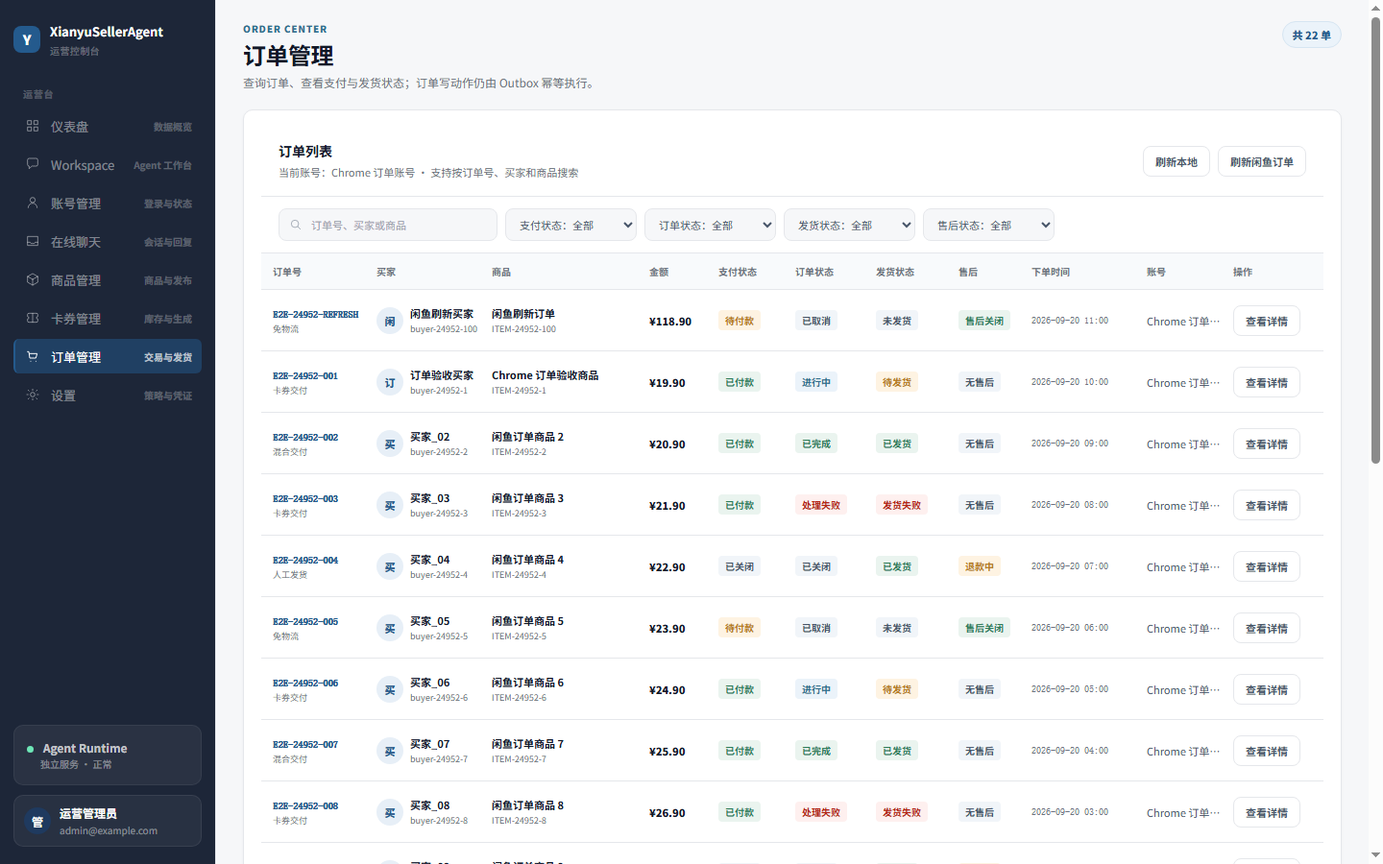
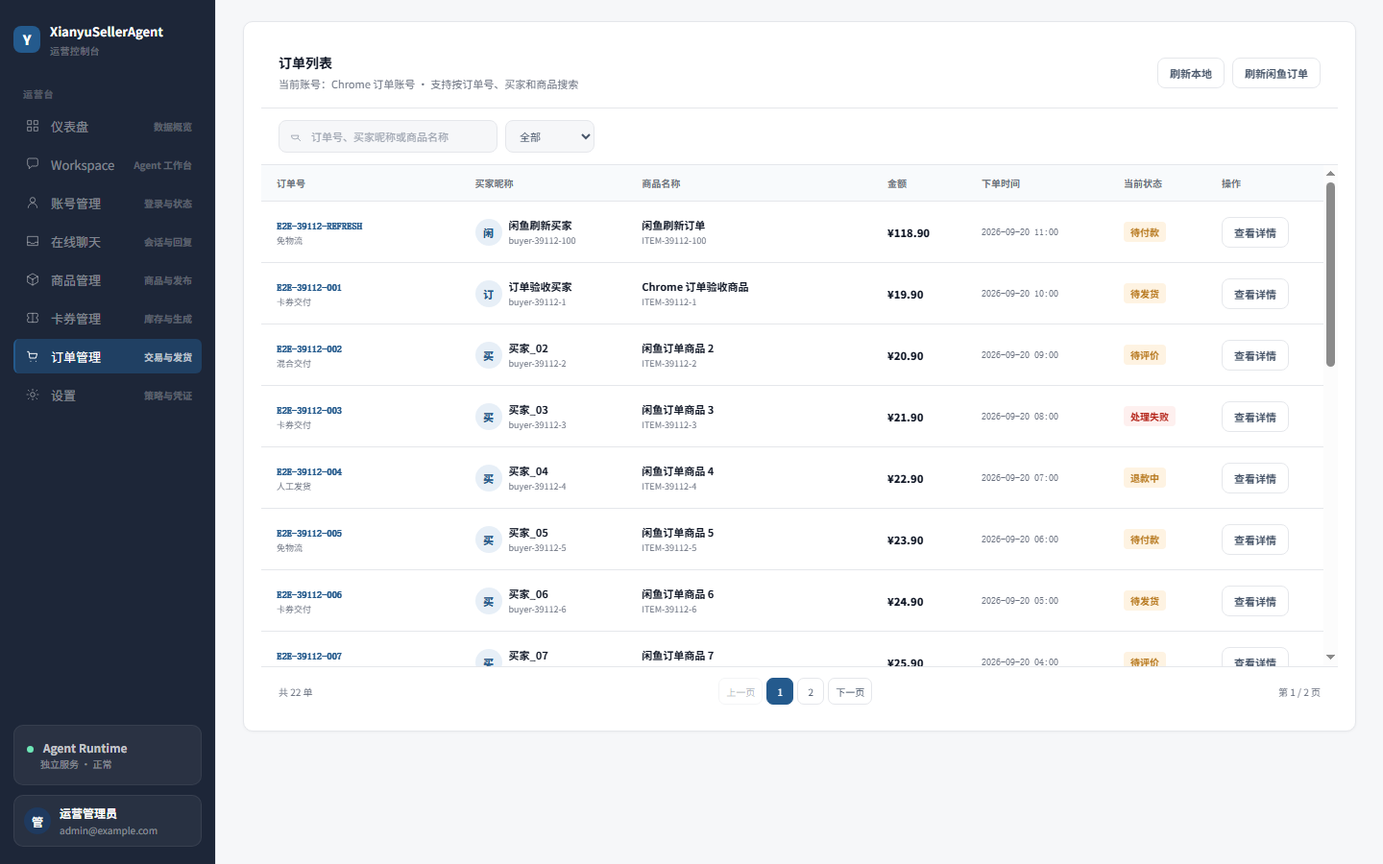
feat(订单): 收敛订单列表筛选与表格展示

diff --git a/apps/web/src/features/orders/components/orders.css b/apps/web/src/features/orders/components/orders.css
@@ -1,7 +1,4 @@
 .orders-domain{max-width:none}
-.orders-page-title{display:flex;justify-content:space-between;align-items:flex-start;gap:16px}
-.orders-page-title h1{margin-bottom:6px}
-.orders-page-badge{display:inline-flex;align-items:center;min-height:28px;padding:0 10px;border:1px solid #D6E5F2;border-radius:999px;background:var(--soft-blue-bg);color:var(--link);font-size:11px;font-weight:800;white-space:nowrap}
 .orders-panel{padding:0;overflow:hidden}
 .orders-toolbar{display:flex;justify-content:space-between;align-items:center;gap:14px;padding:16px 18px;border-bottom:1px solid var(--border);background:#fff}
 .orders-toolbar h2{margin-bottom:3px;font-size:14px}
@@ -16,9 +13,9 @@
 .orders-search input{width:100%;border:0;outline:0;background:transparent;color:var(--text);font-size:11px}
 .orders-search input::placeholder{color:#9CA3AF}
 .orders-context-error{color:var(--danger);font-size:10px;font-weight:700;white-space:nowrap}
-.orders-table-scroll{overflow:auto}
-.orders-table{min-width:0;border:0}
-.orders-row{display:grid;grid-template-columns:100px 112px minmax(150px,1.4fr) 64px 72px 76px 78px 68px 112px 82px 82px;gap:8px;align-items:center;min-height:64px;padding:10px 12px;border-bottom:1px solid var(--border);font-size:11px;color:var(--text)}
+.orders-table-scroll{max-height:min(58vh,560px);min-height:160px;overflow:auto;scrollbar-gutter:stable}
+.orders-table{min-width:920px;border:0}
+.orders-row{display:grid;grid-template-columns:minmax(170px,1.2fr) minmax(140px,1fr) minmax(180px,1.5fr) 88px 138px 92px 90px;gap:10px;align-items:center;min-height:64px;padding:10px 16px;border-bottom:1px solid var(--border);font-size:11px;color:var(--text)}
 .orders-row:last-child{border-bottom:0}
 .orders-head{position:sticky;top:0;z-index:1;min-height:38px;background:#F8FAFC;color:var(--sub);font-size:10px;font-weight:700;white-space:nowrap}
 .orders-row small{display:block;margin-top:3px;color:var(--sub);font-size:9px;line-height:1.35;overflow:hidden;text-overflow:ellipsis;white-space:nowrap}
@@ -31,7 +28,6 @@
 .orders-product{min-width:0}
 .orders-amount{font-weight:800;font-variant-numeric:tabular-nums;white-space:nowrap}
 .orders-time{font-family:ui-monospace,SFMono-Regular,Menlo,monospace;font-size:10px;color:var(--sub);white-space:nowrap}
-.orders-account{color:var(--muted);overflow:hidden;text-overflow:ellipsis;white-space:nowrap}
 .orders-status{display:inline-flex;align-items:center;width:max-content;max-width:100%;padding:3px 7px;border-radius:4px;font-size:10px;font-weight:700;white-space:nowrap}
 .orders-status-success{color:var(--success);background:var(--success-bg)}
 .orders-status-warn{color:var(--warn);background:var(--warn-bg)}
@@ -86,15 +82,13 @@
 .orders-drawer-state strong{color:var(--text);font-size:13px}
 
 @media(max-width:900px){
-  .orders-page-title{align-items:stretch;gap:10px}
-  .orders-page-badge{align-self:flex-start}
   .orders-toolbar,.orders-filters-wrap{align-items:stretch;flex-direction:column}
   .orders-toolbar-actions{justify-content:space-between}
   .orders-filter-row{display:grid;grid-template-columns:repeat(2,minmax(0,1fr));width:100%}
   .orders-search{grid-column:1/-1;width:100%}
   .orders-filter-row select{width:100%}
   .orders-context-error{align-self:flex-start}
-  .orders-table-scroll{overflow:visible}
+  .orders-table-scroll{max-height:min(54vh,460px);min-height:140px;overflow:auto}
   .orders-table{min-width:0}
   .orders-head{display:none}
   .orders-row:not(.orders-head){display:grid;grid-template-columns:1fr auto;gap:8px 12px;align-items:start;min-height:0;margin:0 12px;padding:14px 0;border-bottom:1px solid var(--border)}
@@ -102,11 +96,10 @@
   .orders-row:not(.orders-head)>:nth-child(2){grid-column:1/-1}
   .orders-row:not(.orders-head)>:nth-child(3){grid-column:1/-1}
   .orders-row:not(.orders-head)>:nth-child(4){grid-column:2;grid-row:1;align-self:start}
-  .orders-row:not(.orders-head)>:nth-child(5),.orders-row:not(.orders-head)>:nth-child(6),.orders-row:not(.orders-head)>:nth-child(7),.orders-row:not(.orders-head)>:nth-child(8){grid-column:auto}
-  .orders-row:not(.orders-head)>:nth-child(9),.orders-row:not(.orders-head)>:nth-child(10){grid-column:1/-1}
-  .orders-row:not(.orders-head)>:nth-child(11){grid-column:1/-1}
-  .orders-row:not(.orders-head)>:nth-child(5),.orders-row:not(.orders-head)>:nth-child(6),.orders-row:not(.orders-head)>:nth-child(7),.orders-row:not(.orders-head)>:nth-child(8){display:inline-flex;margin-right:4px}
-  .orders-time,.orders-account{font-size:10px}
+  .orders-row:not(.orders-head)>:nth-child(5){grid-column:1/-1}
+  .orders-row:not(.orders-head)>:nth-child(6){grid-column:1/-1}
+  .orders-row:not(.orders-head)>:nth-child(7){grid-column:1/-1}
+  .orders-time{font-size:10px}
   .orders-pagination{align-items:stretch;flex-direction:column;padding:12px 16px}
   .orders-pagination>div{justify-content:center;order:3}
   .orders-drawer{width:100%;height:auto;max-height:92vh;border-radius:16px 16px 0 0;align-self:flex-end}

diff --git a/apps/web/src/features/orders/components/OrderTable.tsx b/apps/web/src/features/orders/components/OrderTable.tsx
@@ -1,28 +1,20 @@
 import type { OrderVM } from '../types';
+import { getOrderDisplayStatus, orderDisplayStatusLabel, orderDisplayStatusTone } from '../order-status';
 import { formatOrderDate } from './order-date';
-
-const paymentLabels: Record<OrderVM['paymentStatus'], string> = { unpaid: '待付款', paid: '已付款', closed: '已关闭', unknown: '未知' };
-const orderLabels: Record<OrderVM['orderStatus'], string> = { open: '进行中', cancelling: '取消中', cancelled: '已取消', completed: '已完成', closed: '已关闭', failed: '处理失败' };
-const deliveryLabels: Record<OrderVM['deliveryStatus'], string> = { pending: '待发货', reserving: '锁库存', delivered: '已发货', partially_delivered: '部分发货', failed: '发货失败', cancelled: '未发货' };
-const afterSalesLabels: Record<OrderVM['afterSalesStatus'], string> = { none: '无售后', requested: '售后申请', refunding: '退款中', refunded: '已退款', rejected: '已驳回', closed: '售后关闭' };
 
 export function OrderTable({ orders, page, totalPages, total, onPageChange, onOpen }: { orders: OrderVM[]; page: number; totalPages: number; total: number; onPageChange: (page: number) => void; onOpen: (orderNo: string) => void }) {
   const allPages = getPageItems(page, totalPages);
   return <div className="orders-table-region">
     <div className="orders-table-scroll">
       <div className="orders-table" role="table" aria-label="订单列表" data-testid="orders-table">
-        <div className="orders-row orders-head" role="row"><span>订单号</span><span>买家</span><span>商品</span><span>金额</span><span>支付状态</span><span>订单状态</span><span>发货状态</span><span>售后</span><span>下单时间</span><span>账号</span><span>操作</span></div>
+        <div className="orders-row orders-head" role="row"><span>订单号</span><span>买家昵称</span><span>商品名称</span><span>金额</span><span>下单时间</span><span>当前状态</span><span>操作</span></div>
         {orders.map((order) => <div className="orders-row" role="row" key={order.orderNo} data-order-no={order.orderNo}>
           <button className="orders-order-link" type="button" onClick={() => onOpen(order.orderNo)}><strong>{order.orderNo}</strong><small>{order.deliveryType === 'coupon_only' ? '卡券交付' : order.deliveryType === 'no_logistics' ? '免物流' : order.deliveryType === 'mixed' ? '混合交付' : '人工发货'}</small></button>
-          <div className="orders-buyer"><span className="orders-avatar">{order.buyerName.slice(0, 1)}</span><span><strong>{order.buyerName}</strong><small>{order.buyerId}</small></span></div>
+          <div className="orders-buyer"><span className="orders-avatar">{order.buyerName.slice(0, 1)}</span><span title={`买家姓名：${order.buyerName}`} aria-label={`买家昵称，悬浮查看买家姓名：${order.buyerName}`}><strong>{order.buyerName}</strong><small>{order.buyerId}</small></span></div>
           <div className="orders-product"><strong>{order.itemTitle}</strong><small>{order.itemId}</small></div>
           <span className="orders-amount">¥{(order.amountMinor / 100).toFixed(2)}</span>
-          <StatusPill tone={order.paymentStatus === 'paid' ? 'success' : order.paymentStatus === 'closed' ? 'neutral' : order.paymentStatus === 'unknown' ? 'danger' : 'warn'}>{paymentLabels[order.paymentStatus]}</StatusPill>
-          <StatusPill tone={order.orderStatus === 'completed' ? 'success' : order.orderStatus === 'failed' ? 'danger' : order.orderStatus === 'closed' || order.orderStatus === 'cancelled' ? 'neutral' : 'info'}>{orderLabels[order.orderStatus]}</StatusPill>
-          <StatusPill tone={order.deliveryStatus === 'delivered' ? 'success' : order.deliveryStatus === 'failed' ? 'danger' : order.deliveryStatus === 'cancelled' ? 'neutral' : 'warn'}>{deliveryLabels[order.deliveryStatus]}</StatusPill>
-          <StatusPill tone={order.afterSalesStatus === 'none' ? 'neutral' : order.afterSalesStatus === 'refunded' || order.afterSalesStatus === 'closed' ? 'success' : 'warn'}>{afterSalesLabels[order.afterSalesStatus]}</StatusPill>
           <time className="orders-time" dateTime={order.createdAt}>{formatOrderDate(order.createdAt)}</time>
-          <span className="orders-account">{order.accountName ?? order.accountId}</span>
+          {(() => { const status = getOrderDisplayStatus(order); return <StatusPill tone={orderDisplayStatusTone(status)}>{orderDisplayStatusLabel(status)}</StatusPill>; })()}
           <span className="orders-row-actions"><button className="btn ghost btn-small" type="button" onClick={() => onOpen(order.orderNo)}>查看详情</button></span>
         </div>)}
       </div>

diff --git a/apps/web/src/features/orders/components/OrderFilters.tsx b/apps/web/src/features/orders/components/OrderFilters.tsx
@@ -1,25 +1,9 @@
-import type { AfterSalesStatus, DeliveryStatus, OrderFilters as OrderFiltersVM, OrderStatus, PaymentStatus } from '../types';
-
-const paymentOptions: Array<{ value: PaymentStatus | 'all'; label: string }> = [
-  { value: 'all', label: '支付状态：全部' }, { value: 'unpaid', label: '待付款' }, { value: 'paid', label: '已付款' }, { value: 'closed', label: '已关闭' }, { value: 'unknown', label: '未知' },
-];
-const orderOptions: Array<{ value: OrderStatus | 'all'; label: string }> = [
-  { value: 'all', label: '订单状态：全部' }, { value: 'open', label: '进行中' }, { value: 'completed', label: '已完成' }, { value: 'closed', label: '已关闭' }, { value: 'cancelled', label: '已取消' }, { value: 'failed', label: '处理失败' },
-];
-const deliveryOptions: Array<{ value: DeliveryStatus | 'all'; label: string }> = [
-  { value: 'all', label: '发货状态：全部' }, { value: 'pending', label: '待发货' }, { value: 'reserving', label: '锁库存' }, { value: 'delivered', label: '已发货' }, { value: 'partially_delivered', label: '部分发货' }, { value: 'failed', label: '发货失败' }, { value: 'cancelled', label: '未发货' },
-];
-const afterSalesOptions: Array<{ value: AfterSalesStatus | 'all'; label: string }> = [
-  { value: 'all', label: '售后状态：全部' }, { value: 'none', label: '无售后' }, { value: 'requested', label: '售后申请' }, { value: 'refunding', label: '退款中' }, { value: 'refunded', label: '已退款' }, { value: 'closed', label: '售后关闭' },
-];
+import type { OrderFilters as OrderFiltersVM } from '../types';
+import { filtersForStatus, orderListStatusOptions, statusFilterFromFilters } from '../order-status';
 
 export function OrderFilters({ filters, onChange }: { filters: OrderFiltersVM; onChange: (patch: Partial<OrderFiltersVM>) => void }) {
   return <div className="orders-filter-row" aria-label="订单筛选条件">
-    <label className="orders-search"><span className="sr-only">搜索订单</span><svg viewBox="0 0 24 24" aria-hidden="true"><path d="m20 20-4.2-4.2m1.2-5.3a6.5 6.5 0 1 1-13 0a6.5 6.5 0 0 1 13 0Z" /></svg><input aria-label="搜索订单" value={filters.keyword ?? ''} onChange={(event) => onChange({ keyword: event.target.value, page: 1 })} placeholder="订单号、买家或商品" /></label>
-    <label><span className="sr-only">支付状态</span><select aria-label="支付状态" value={filters.paymentStatus ?? 'all'} onChange={(event) => onChange({ paymentStatus: event.target.value as PaymentStatus | 'all', page: 1 })}>{paymentOptions.map((option) => <option value={option.value} key={option.value}>{option.label}</option>)}</select></label>
-    <label><span className="sr-only">订单状态</span><select aria-label="订单状态" value={filters.orderStatus ?? 'all'} onChange={(event) => onChange({ orderStatus: event.target.value as OrderStatus | 'all', page: 1 })}>{orderOptions.map((option) => <option value={option.value} key={option.value}>{option.label}</option>)}</select></label>
-    <label><span className="sr-only">发货状态</span><select aria-label="发货状态" value={filters.deliveryStatus ?? 'all'} onChange={(event) => onChange({ deliveryStatus: event.target.value as DeliveryStatus | 'all', page: 1 })}>{deliveryOptions.map((option) => <option value={option.value} key={option.value}>{option.label}</option>)}</select></label>
-    <label><span className="sr-only">售后状态</span><select aria-label="售后状态" value={filters.afterSalesStatus ?? 'all'} onChange={(event) => onChange({ afterSalesStatus: event.target.value as AfterSalesStatus | 'all', page: 1 })}>{afterSalesOptions.map((option) => <option value={option.value} key={option.value}>{option.label}</option>)}</select></label>
+    <label className="orders-search"><span className="sr-only">搜索订单</span><svg viewBox="0 0 24 24" aria-hidden="true"><path d="m20 20-4.2-4.2m1.2-5.3a6.5 6.5 0 1 1-13 0Z" /></svg><input aria-label="搜索订单" value={filters.keyword ?? ''} onChange={(event) => onChange({ keyword: event.target.value, page: 1 })} placeholder="订单号、买家昵称或商品名称" /></label>
+    <label><span className="sr-only">订单状态</span><select aria-label="订单状态" value={statusFilterFromFilters(filters)} onChange={(event) => onChange({ ...filtersForStatus(event.target.value as Parameters<typeof filtersForStatus>[0]), page: 1 })}>{orderListStatusOptions.map((option) => <option value={option.value} key={option.value}>{option.label}</option>)}</select></label>
   </div>;
 }
-

diff --git a/apps/web/src/features/orders/order-status.ts b/apps/web/src/features/orders/order-status.ts
@@ -1,0 +1,65 @@
+import type { OrderFilters, OrderVM } from './types';
+
+export type OrderListStatusFilter = 'all' | 'pending_payment' | 'pending_delivery' | 'pending_receipt' | 'pending_review' | 'refunding';
+export type OrderDisplayStatus = OrderListStatusFilter | 'processing' | 'failed' | 'completed' | 'closed';
+
+export const orderListStatusOptions: Array<{ value: OrderListStatusFilter; label: string }> = [
+  { value: 'all', label: '全部' },
+  { value: 'pending_payment', label: '待付款' },
+  { value: 'pending_delivery', label: '待发货' },
+  { value: 'pending_receipt', label: '待收货' },
+  { value: 'pending_review', label: '待评价' },
+  { value: 'refunding', label: '退款中' },
+];
+
+export function filtersForStatus(value: OrderListStatusFilter): Partial<OrderFilters> {
+  const base: Partial<OrderFilters> = {
+    paymentStatus: 'all',
+    orderStatus: 'all',
+    deliveryStatus: 'all',
+    afterSalesStatus: 'all',
+  };
+  if (value === 'pending_payment') return { ...base, paymentStatus: 'unpaid' };
+  if (value === 'pending_delivery') return { ...base, deliveryStatus: 'pending' };
+  if (value === 'pending_receipt') return { ...base, orderStatus: 'open', deliveryStatus: 'delivered' };
+  if (value === 'pending_review') return { ...base, orderStatus: 'completed', deliveryStatus: 'delivered' };
+  if (value === 'refunding') return { ...base, afterSalesStatus: 'refunding' };
+  return base;
+}
+
+export function statusFilterFromFilters(filters: Pick<OrderFilters, 'paymentStatus' | 'orderStatus' | 'deliveryStatus' | 'afterSalesStatus'>): OrderListStatusFilter {
+  if (filters.paymentStatus === 'unpaid') return 'pending_payment';
+  if (filters.deliveryStatus === 'pending') return 'pending_delivery';
+  if (filters.deliveryStatus === 'delivered' && filters.orderStatus === 'open') return 'pending_receipt';
+  if (filters.orderStatus === 'completed') return 'pending_review';
+  if (filters.afterSalesStatus === 'refunding') return 'refunding';
+  return 'all';
+}
+
+export function getOrderDisplayStatus(order: Pick<OrderVM, 'paymentStatus' | 'orderStatus' | 'deliveryStatus' | 'afterSalesStatus'>): OrderDisplayStatus {
+  if (order.paymentStatus === 'unpaid') return 'pending_payment';
+  if (order.afterSalesStatus === 'refunding') return 'refunding';
+  if (order.deliveryStatus === 'pending') return 'pending_delivery';
+  if (order.deliveryStatus === 'delivered' && order.orderStatus === 'open') return 'pending_receipt';
+  if (order.deliveryStatus === 'delivered' && order.orderStatus === 'completed') return 'pending_review';
+  if (order.deliveryStatus === 'failed' || order.orderStatus === 'failed') return 'failed';
+  if (order.orderStatus === 'completed') return 'completed';
+  if (order.orderStatus === 'closed' || order.orderStatus === 'cancelled') return 'closed';
+  return 'processing';
+}
+
+export function orderDisplayStatusLabel(status: OrderDisplayStatus): string {
+  const labels: Record<OrderDisplayStatus, string> = {
+    all: '全部', pending_payment: '待付款', pending_delivery: '待发货', pending_receipt: '待收货', pending_review: '待评价', refunding: '退款中',
+    processing: '处理中', failed: '处理失败', completed: '已完成', closed: '已关闭',
+  };
+  return labels[status];
+}
+
+export function orderDisplayStatusTone(status: OrderDisplayStatus): 'success' | 'warn' | 'danger' | 'neutral' | 'info' {
+  if (status === 'pending_payment' || status === 'pending_delivery' || status === 'pending_receipt' || status === 'pending_review' || status === 'refunding') return 'warn';
+  if (status === 'failed') return 'danger';
+  if (status === 'completed') return 'success';
+  if (status === 'closed') return 'neutral';
+  return 'info';
+}

diff --git a/apps/web/src/features/orders/order-status.test.ts b/apps/web/src/features/orders/order-status.test.ts
@@ -1,0 +1,19 @@
+import { describe, expect, it } from 'vitest';
+import { filtersForStatus, getOrderDisplayStatus, orderDisplayStatusLabel, statusFilterFromFilters } from './order-status';
+
+describe('order status presentation', () => {
+  it('maps the single UI filter to existing canonical status fields', () => {
+    expect(filtersForStatus('pending_payment')).toMatchObject({ paymentStatus: 'unpaid', orderStatus: 'all', deliveryStatus: 'all', afterSalesStatus: 'all' });
+    expect(filtersForStatus('pending_receipt')).toMatchObject({ paymentStatus: 'all', orderStatus: 'open', deliveryStatus: 'delivered', afterSalesStatus: 'all' });
+    expect(filtersForStatus('pending_review')).toMatchObject({ orderStatus: 'completed', deliveryStatus: 'delivered' });
+    expect(filtersForStatus('refunding')).toMatchObject({ afterSalesStatus: 'refunding' });
+    expect(statusFilterFromFilters({ paymentStatus: 'unpaid', orderStatus: 'all', deliveryStatus: 'all', afterSalesStatus: 'all' })).toBe('pending_payment');
+  });
+
+  it('derives the current display status without collapsing canonical fields', () => {
+    expect(getOrderDisplayStatus({ paymentStatus: 'unpaid', orderStatus: 'open', deliveryStatus: 'pending', afterSalesStatus: 'none' })).toBe('pending_payment');
+    expect(getOrderDisplayStatus({ paymentStatus: 'paid', orderStatus: 'open', deliveryStatus: 'delivered', afterSalesStatus: 'none' })).toBe('pending_receipt');
+    expect(getOrderDisplayStatus({ paymentStatus: 'paid', orderStatus: 'completed', deliveryStatus: 'delivered', afterSalesStatus: 'none' })).toBe('pending_review');
+    expect(orderDisplayStatusLabel('refunding')).toBe('退款中');
+  });
+});

diff --git a/apps/web/src/features/orders/components/OrderTable.test.ts b/apps/web/src/features/orders/components/OrderTable.test.ts
@@ -1,0 +1,30 @@
+import { createElement } from 'react';
+import { renderToStaticMarkup } from 'react-dom/server';
+import { describe, expect, it, vi } from 'vitest';
+import { OrderTable } from './OrderTable';
+import type { OrderVM } from '../types';
+
+const order: OrderVM = {
+  orderNo: 'O-1', accountId: 'A', buyerId: 'buyer-1', buyerName: '买家姓名', itemId: 'I-1', itemTitle: '测试商品', amountMinor: 1990,
+  paymentStatus: 'paid', orderStatus: 'open', deliveryStatus: 'delivered', afterSalesStatus: 'none', deliveryType: 'manual', createdAt: '2026-09-20T09:00:00Z', configVersion: 1,
+};
+
+describe('OrderTable', () => {
+  it('renders the requested columns while keeping the detail action', () => {
+    const html = renderToStaticMarkup(createElement(OrderTable, { orders: [order], page: 1, totalPages: 1, total: 1, onPageChange: vi.fn(), onOpen: vi.fn() }));
+    expect(html).toContain('订单号');
+    expect(html).toContain('买家昵称');
+    expect(html).toContain('商品名称');
+    expect(html).toContain('金额');
+    expect(html).toContain('下单时间');
+    expect(html).toContain('当前状态');
+    expect(html).toContain('操作');
+    expect(html).toContain('查看详情');
+    expect(html).toContain('title="买家姓名：买家姓名"');
+    expect(html).toContain('待收货');
+    expect(html).not.toContain('支付状态');
+    expect(html).not.toContain('发货状态');
+    expect(html).not.toContain('售后');
+    expect(html).not.toContain('账号');
+  });
+});

diff --git a/apps/web/src/features/orders/components/OrdersPage.tsx b/apps/web/src/features/orders/components/OrdersPage.tsx
@@ -27,7 +27,6 @@ export function OrdersPage({ api: providedApi }: { api?: OrdersApi }) {
   const retry = contextLoadFailure ? () => void refreshAccounts() : controller.reload;
   const orders = pageData?.items ?? [];
   return <section className="page-stack orders-domain" data-orders-domain>
-    <div className="orders-page-title"><div><p className="eyebrow">Order Center</p><h1>订单管理</h1><p>查询订单、查看支付与发货状态；订单写动作仍由 Outbox 幂等执行。</p></div><span className="orders-page-badge">{pageData ? `共 ${pageData.total} 单` : '订单中心'}</span></div>
     <article className="card panel orders-panel">
       <OrderSyncToolbar currentAccount={currentAccount} contextLoading={accountsLoading} contextMissing={contextMissing} loading={controller.state.phase === 'loading'} onRefresh={() => void controller.reload()} onSync={() => void controller.refreshFromXianyu()} />
       <div className="orders-filters-wrap"><OrderFilters filters={controller.filters} onChange={(patch) => setFilters((previous) => ({ ...previous, ...patch }))} />{accountsError && !contextLoadFailure && <span className="orders-context-error" role="alert">账号上下文加载失败</span>}</div>

diff --git a/apps/web/src/features/orders/components/OrderFilters.test.ts b/apps/web/src/features/orders/components/OrderFilters.test.ts
@@ -1,0 +1,25 @@
+import { createElement } from 'react';
+import { renderToStaticMarkup } from 'react-dom/server';
+import { describe, expect, it, vi } from 'vitest';
+import { OrderFilters } from './OrderFilters';
+
+describe('OrderFilters', () => {
+  it('renders one search input and one business status filter', () => {
+    const html = renderToStaticMarkup(createElement(OrderFilters, {
+      filters: { keyword: '', paymentStatus: 'all', orderStatus: 'all', deliveryStatus: 'all', afterSalesStatus: 'all' },
+      onChange: vi.fn(),
+    }));
+
+    expect(html.match(/<select /g)).toHaveLength(1);
+    expect(html).toContain('placeholder="订单号、买家昵称或商品名称"');
+    expect(html).toContain('>全部</option>');
+    expect(html).toContain('>待付款</option>');
+    expect(html).toContain('>待发货</option>');
+    expect(html).toContain('>待收货</option>');
+    expect(html).toContain('>待评价</option>');
+    expect(html).toContain('>退款中</option>');
+    expect(html).not.toContain('支付状态');
+    expect(html).not.toContain('发货状态');
+    expect(html).not.toContain('售后状态');
+  });
+});

diff --git a/docs/evidence/stage5/S4-VS4A/test-baseline.md b/docs/evidence/stage5/S4-VS4A/test-baseline.md
@@ -1,13 +1,13 @@
 # S4-VS4A 订单列表切片验证基线
 
 - 日期：2026-09-20
-- 范围：`/orders` 订单只读列表切片：账号 scope、关键词、支付/订单/发货/售后四套独立状态、分页、详情抽屉、本地刷新、闲鱼刷新、桌面/移动响应式。
+- 范围：`/orders` 订单只读列表界面修订：账号 scope、订单号/买家昵称/商品名称关键词、单一业务状态筛选、六列表格、买家姓名悬浮提示、表格内部滚动、分页、详情抽屉、本地刷新、闲鱼刷新、桌面/移动响应式。
 - 非目标：`delivery-preview`、发货/取消/重试、库存锁定、DeliveryRecord、Outbox、买家交付正文和订单写动作。
 - 结论：`PARTIALLY_VERIFIED/BLOCKED（S4-VS4A 只读订单列表切片）`；受控前后端、PostgreSQL、Chrome/CDP 和参考项目响应解析均通过，但真实 seller 订单接口对当前账号返回 `PERMISSION_EXCEPTION::无权限访问`，因此不能宣称真实闲鱼订单读取已通过；`S4-VS4B/C` 继续保持后置。
 
 ## 实现边界
 
-- 前端：`apps/web/src/features/orders/` 按 api/controller/types/components 拆分；正式接入 `/orders`；桌面密集表格在 1440×900 内完整展示列，移动端回退为卡片流与底部详情抽屉。
+- 前端：`apps/web/src/features/orders/` 按 api/controller/types/components 拆分；正式接入 `/orders`；移除 `orders-page-title`，筛选区仅保留关键词搜索和“全部/待付款/待发货/待收货/待评价/退款中”单一状态下拉；桌面六列加操作列在 1440×900 内展示，表格区域内部滚动并保留分页，买家昵称通过原生悬浮提示展示可用买家姓名，移动端回退为卡片流与底部详情抽屉。
 - 后端：`OrderService`、MemoryStore/PostgresStore、账号 scope、分页/筛选、只读详情与 refresh；API 为 `GET /api/v1/orders`、`GET /api/v1/orders/{orderNo}`、`POST /api/v1/orders/refresh`。
 - 数据库：`apps/api/migrations/018_orders.sql` 创建 `orders.orders`，包含四态约束、`(account_id, order_no)` 唯一约束、账号/商品外键和列表索引。
 - 闲鱼：`XianyuMtopClient.fetchOrdersAll` + mapper 只读拉取；请求按 Ydisks seller 工作台契约发送 `rowsPerPage/orderIds/queryCode/orderSearchParam`，并使用 seller origin/referer、`idle_site_biz_code`、`valueType=string`；解析 `data.module.items` 与 `commonData/buyerInfoVO/priceVO/rightVO`；金额统一为分、时间统一 ISO UTC；凭证失效、权限拒绝和业务失败映射为可识别错误，不返回 Cookie/Token/原始 payload。
@@ -16,15 +16,16 @@
 
 - `npm run db:migrate`：PostgreSQL 实际应用 `018_orders.sql`。
 - `npm run typecheck`：API + Web 通过。
-- `npm test`：API 全部 smoke 通过；Web 25 个测试文件 / 89 个用例通过。
+- `npm test`：API 全部 smoke 通过；Web 34 个测试文件 / 105 个用例通过。
 - `npm run build`：API + Web production build 通过。
 - `npm --workspace apps/api run test:orders`：未认证 401、账号 scope/403、关键词/四态筛选、详情 404、refresh 成功/错误边界通过。
 - `npm --workspace apps/api run test:orders:postgres`：真实 PostgreSQL create/list、HTTP `/orders`、refresh upsert、API 重启后复读和测试数据清理通过。
-- `npm run test:e2e:chrome:orders`：真实 Vite + live API + MemoryStore + headless Chrome/CDP 通过，覆盖账号切换、列表、筛选、详情、分页、本地刷新不触发闲鱼、闲鱼 refresh upsert 和账号隔离。
+- `npm run test:e2e:chrome:orders`：真实 Vite + live API + MemoryStore + headless Chrome/CDP 通过，覆盖账号切换、六列表头、单一状态筛选、关键词搜索、买家姓名悬浮提示、详情抽屉、分页、表格内部滚动、本地刷新不触发闲鱼、闲鱼 refresh upsert 和账号隔离。
 - 视觉证据：`docs/evidence/stage5/S4-VS4A/screenshots/orders-desktop-1440x900.png`、`orders-mobile-390x844.png`；桌面列完整可见，移动端无横向溢出。
 - 受控参考响应：`apps/api/scripts/xianyu-order-mapper-smoke.mjs` 解析 `data.module.items` 下的真实 seller 结构，金额、状态、分页断言通过。
 - 受控请求契约：`apps/api/scripts/xianyu-order-request-smoke.mjs` 断言 `rowsPerPage/orderIds/queryCode/orderSearchParam`、seller origin/referer、`idle_site_biz_code`、`type=json`、`valueType=string`、`spm_cnt`，并确认返回订单可进入 `fetchOrdersAll`。
 - 实闲鱼读取：使用 PostgreSQL 中现有 active 凭证调用修复后的 `fetchOrdersAll`，两个账号均明确返回 `MTOP_PERMISSION_DENIED / PERMISSION_EXCEPTION::无权限访问`，不是成功 0 条；未伪造订单数据，未输出凭证或原始 payload。当前需要补充完整浏览器 Cookie/Jar 或具备 seller 订单权限的有效账号后复验。
+- 本轮“当前状态”是前端对既有支付/订单/发货/售后 canonical 字段的展示投影；下拉选项映射回现有四态查询字段，未改变后端订单记录模型。买家昵称与实名字段目前仍共用既有 `buyerName` 契约，后续可在订单详情/数据契约切片中补充分离字段。
 - `git diff --check`：通过。
 
 ## 评审与风险边界
